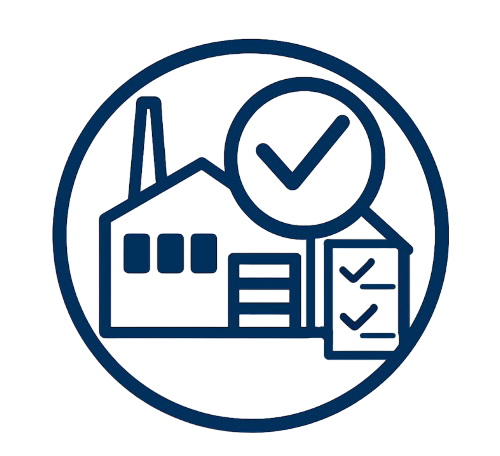
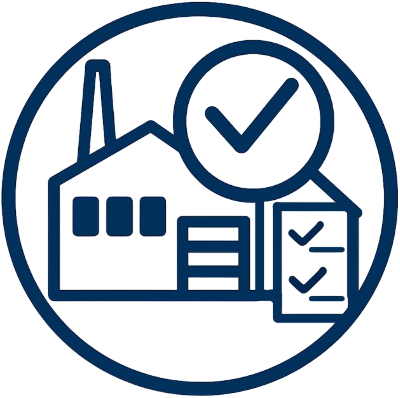
Cambios en el dashboard

diff --git a/resources/js/solicitudes-tipo.js b/resources/js/solicitudes-tipo.js
@@ -11,7 +11,7 @@ function obtenerIcono(id_tipo) {
    // console.log('ID recibido:', id_tipoStr); 
     switch (id_tipoStr) {
         case '1': 
-            return 'assets/img/solicitudes/muestreo_agave.png'; 
+            return 'assets/img/solicitudes/muestreoDeAgave.png'; 
         case '2': 
             return 'assets/img/solicitudes/vigilancia_producción.png'; 
         case '3': 

diff --git a/resources/views/_partials/_modals/modal-validad-solicitud.blade.php b/resources/views/_partials/_modals/modal-validad-solicitud.blade.php
@@ -696,21 +696,6 @@
                                         </tr>
                                         <tr>
                                             <th class="text-dark fw-bold" style="font-size: 11px;" scope="row">
-                                                Domicilio de Instalaciones (Unidad de Producción o Envasadora
-                                                Autorizada):
-                                            </th>
-                                            <td class="domicilioInstalacion"></td>
-                                            <td>
-                                                <select name="domicilioInstalacion" class="form-control form-control-sm"
-                                                    id="cumpleDomicilioInstalacionesEmisorDictamen">
-                                                    <option value="" disabled selected>Seleccionar</option>
-                                                    <option value="si">Sí</option>
-                                                    <option value="no">No</option>
-                                                </select>
-                                            </td>
-                                        </tr>
-                                        <tr>
-                                            <th class="text-dark fw-bold" style="font-size: 11px;" scope="row">
                                                 Fecha y
                                                 Hora de Visita:</th>
                                             <td class="fechaHora"></td>
@@ -801,6 +786,22 @@
                                             <td class="fq"></td>
                                             <td>
                                                 <select name="fq" class="form-control form-control-sm" id="cumpleFqEnvasado">
+                                                    <option value="" disabled selected>Seleccionar</option>
+                                                    <option value="si">Sí</option>
+                                                    <option value="no">No</option>
+                                                </select>
+                                            </td>
+                                        </tr>
+                                        
+                                        <tr>
+                                            <th class="text-dark fw-bold" style="font-size: 11px;" scope="row">
+                                                Domicilio de Instalaciones (Unidad de Producción o Envasadora
+                                                Autorizada):
+                                            </th>
+                                            <td class="domicilioInstalacion"></td>
+                                            <td>
+                                                <select name="domicilioInstalacion" class="form-control form-control-sm"
+                                                    id="cumpleDomicilioInstalacionesEmisorDictamen">
                                                     <option value="" disabled selected>Seleccionar</option>
                                                     <option value="si">Sí</option>
                                                     <option value="no">No</option>

diff --git a/resources/views/content/dashboard/dashboards-analytics.blade.php b/resources/views/content/dashboard/dashboards-analytics.blade.php
@@ -154,8 +154,8 @@
                         <div class="card-body">
                             <div class="d-flex align-items-center mb-2">
                                 <div class="avatar me-4">
-                                    <span class="avatar-initial rounded-3 bg-label-primary"><i
-                                            class="ri-home-gear-line ri-24px"></i></span>
+                                    <span class="avatar-initial rounded-3 bg-label-danger"><i
+                                            class="ri-file-warning-line ri-24px"></i></span>
                                 </div>
                                 <h4 class="mb-0">{{ $dictamenesInstalacionesSinCertificado }}</h4>
                             </div>
@@ -163,12 +163,21 @@
                             <hr>
                             <div class="d-flex align-items-center mb-2">
                                 <div class="avatar me-4">
-                                    <span class="avatar-initial rounded-3 bg-label-warning"><i
-                                            class="ri-paint-fill ri-24px"></i></span>
+                                    <span class="avatar-initial rounded-3 bg-label-danger"><i
+                                            class="ri-file-warning-line ri-24px"></i></span>
                                 </div>
                                 <h4 class="mb-0">{{ $dictamenesGranelesSinCertificado }}</h4>
                             </div>
                             <h6 class="mb-0 fw-normal">Pendiente de crear certificado de graneles</h6>
+                             <hr>
+                            <div class="d-flex align-items-center mb-2">
+                                <div class="avatar me-4">
+                                    <span class="avatar-initial rounded-3 bg-label-danger"><i
+                                            class="ri-file-warning-line ri-24px"></i></span>
+                                </div>
+                                <h4 class="mb-0">{{ $dictamenesExportacionSinCertificado }}</h4>
+                            </div>
+                            <h6 class="mb-0 fw-normal">Pendiente de crear certificado de exportación</h6>
                         </div>
                     </div>
                 </div>

diff --git a/app/Http/Controllers/dashboard/Analytics.php b/app/Http/Controllers/dashboard/Analytics.php
@@ -57,11 +57,11 @@ class Analytics extends Controller
 
     $dictamenesInstalacionesSinCertificado = Dictamen_instalaciones::whereDoesntHave('certificado')->where('fecha_emision','>','2024-12-31')->count();
     $dictamenesGranelesSinCertificado = Dictamen_Granel::whereDoesntHave('certificado')->where('fecha_emision','>','2024-12-31')->count();
+    $dictamenesExportacionSinCertificado  = Dictamen_Exportacion::whereDoesntHave('certificado')->where('fecha_emision','>','2024-12-31')->count();
 
 
 
-
-    return view('content.dashboard.dashboards-analytics', compact('solicitudesSinInspeccion', 'solicitudesSinActa', 'dictamenesPorVencer', 'certificadosPorVencer', 'dictamenesInstalacionesSinCertificado', 'dictamenesGranelesSinCertificado'));
+    return view('content.dashboard.dashboards-analytics', compact('solicitudesSinInspeccion', 'solicitudesSinActa', 'dictamenesPorVencer', 'certificadosPorVencer', 'dictamenesInstalacionesSinCertificado', 'dictamenesGranelesSinCertificado','dictamenesExportacionSinCertificado'));
   }
 
   public function estadisticasCertificados(Request $request)
